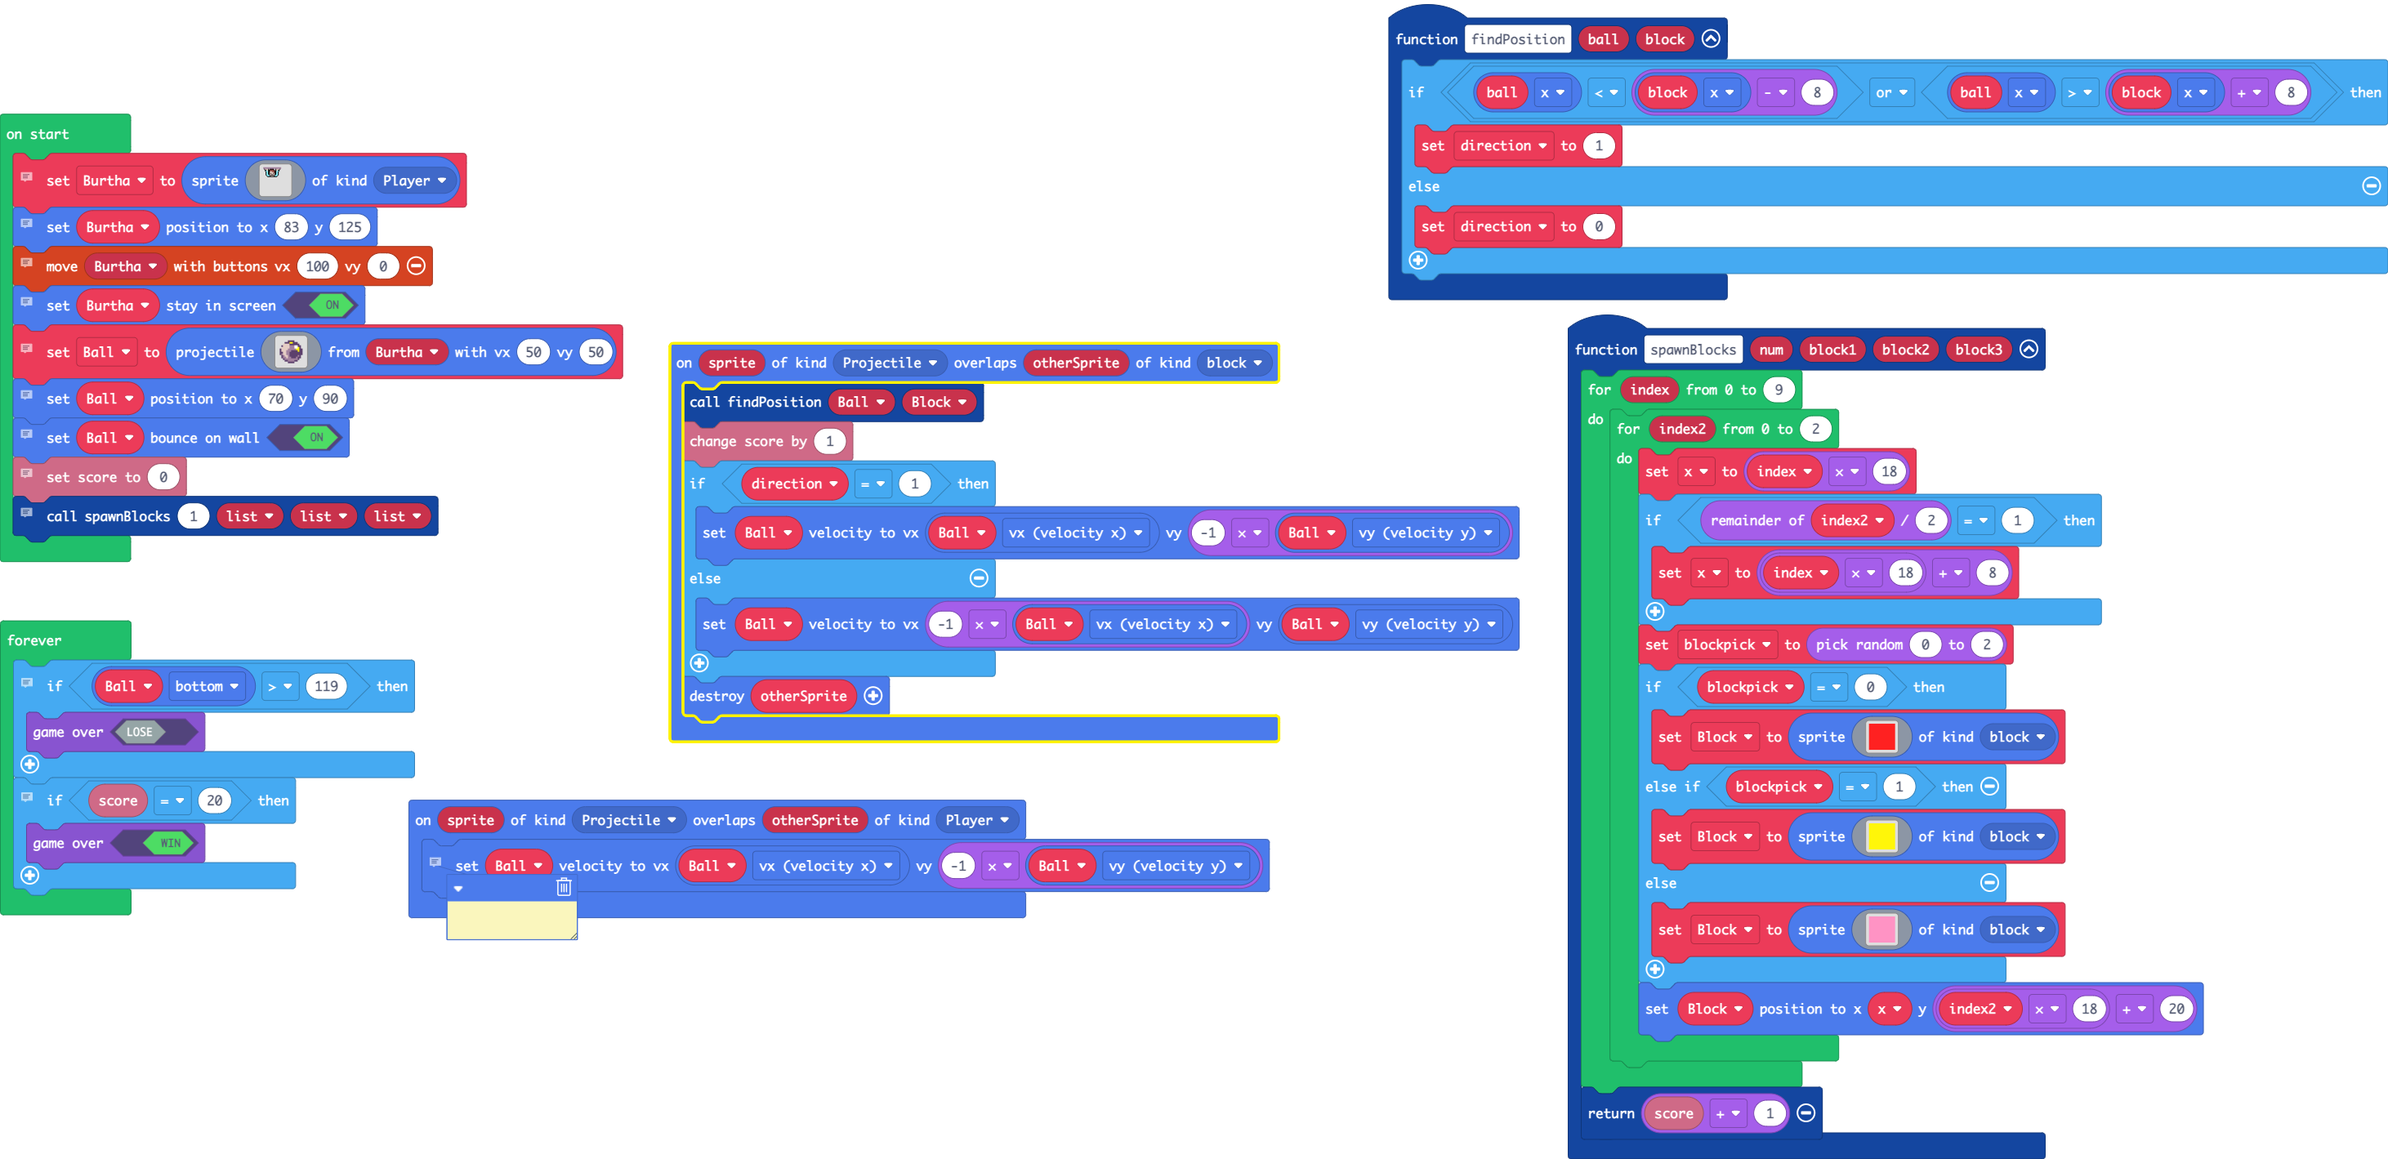
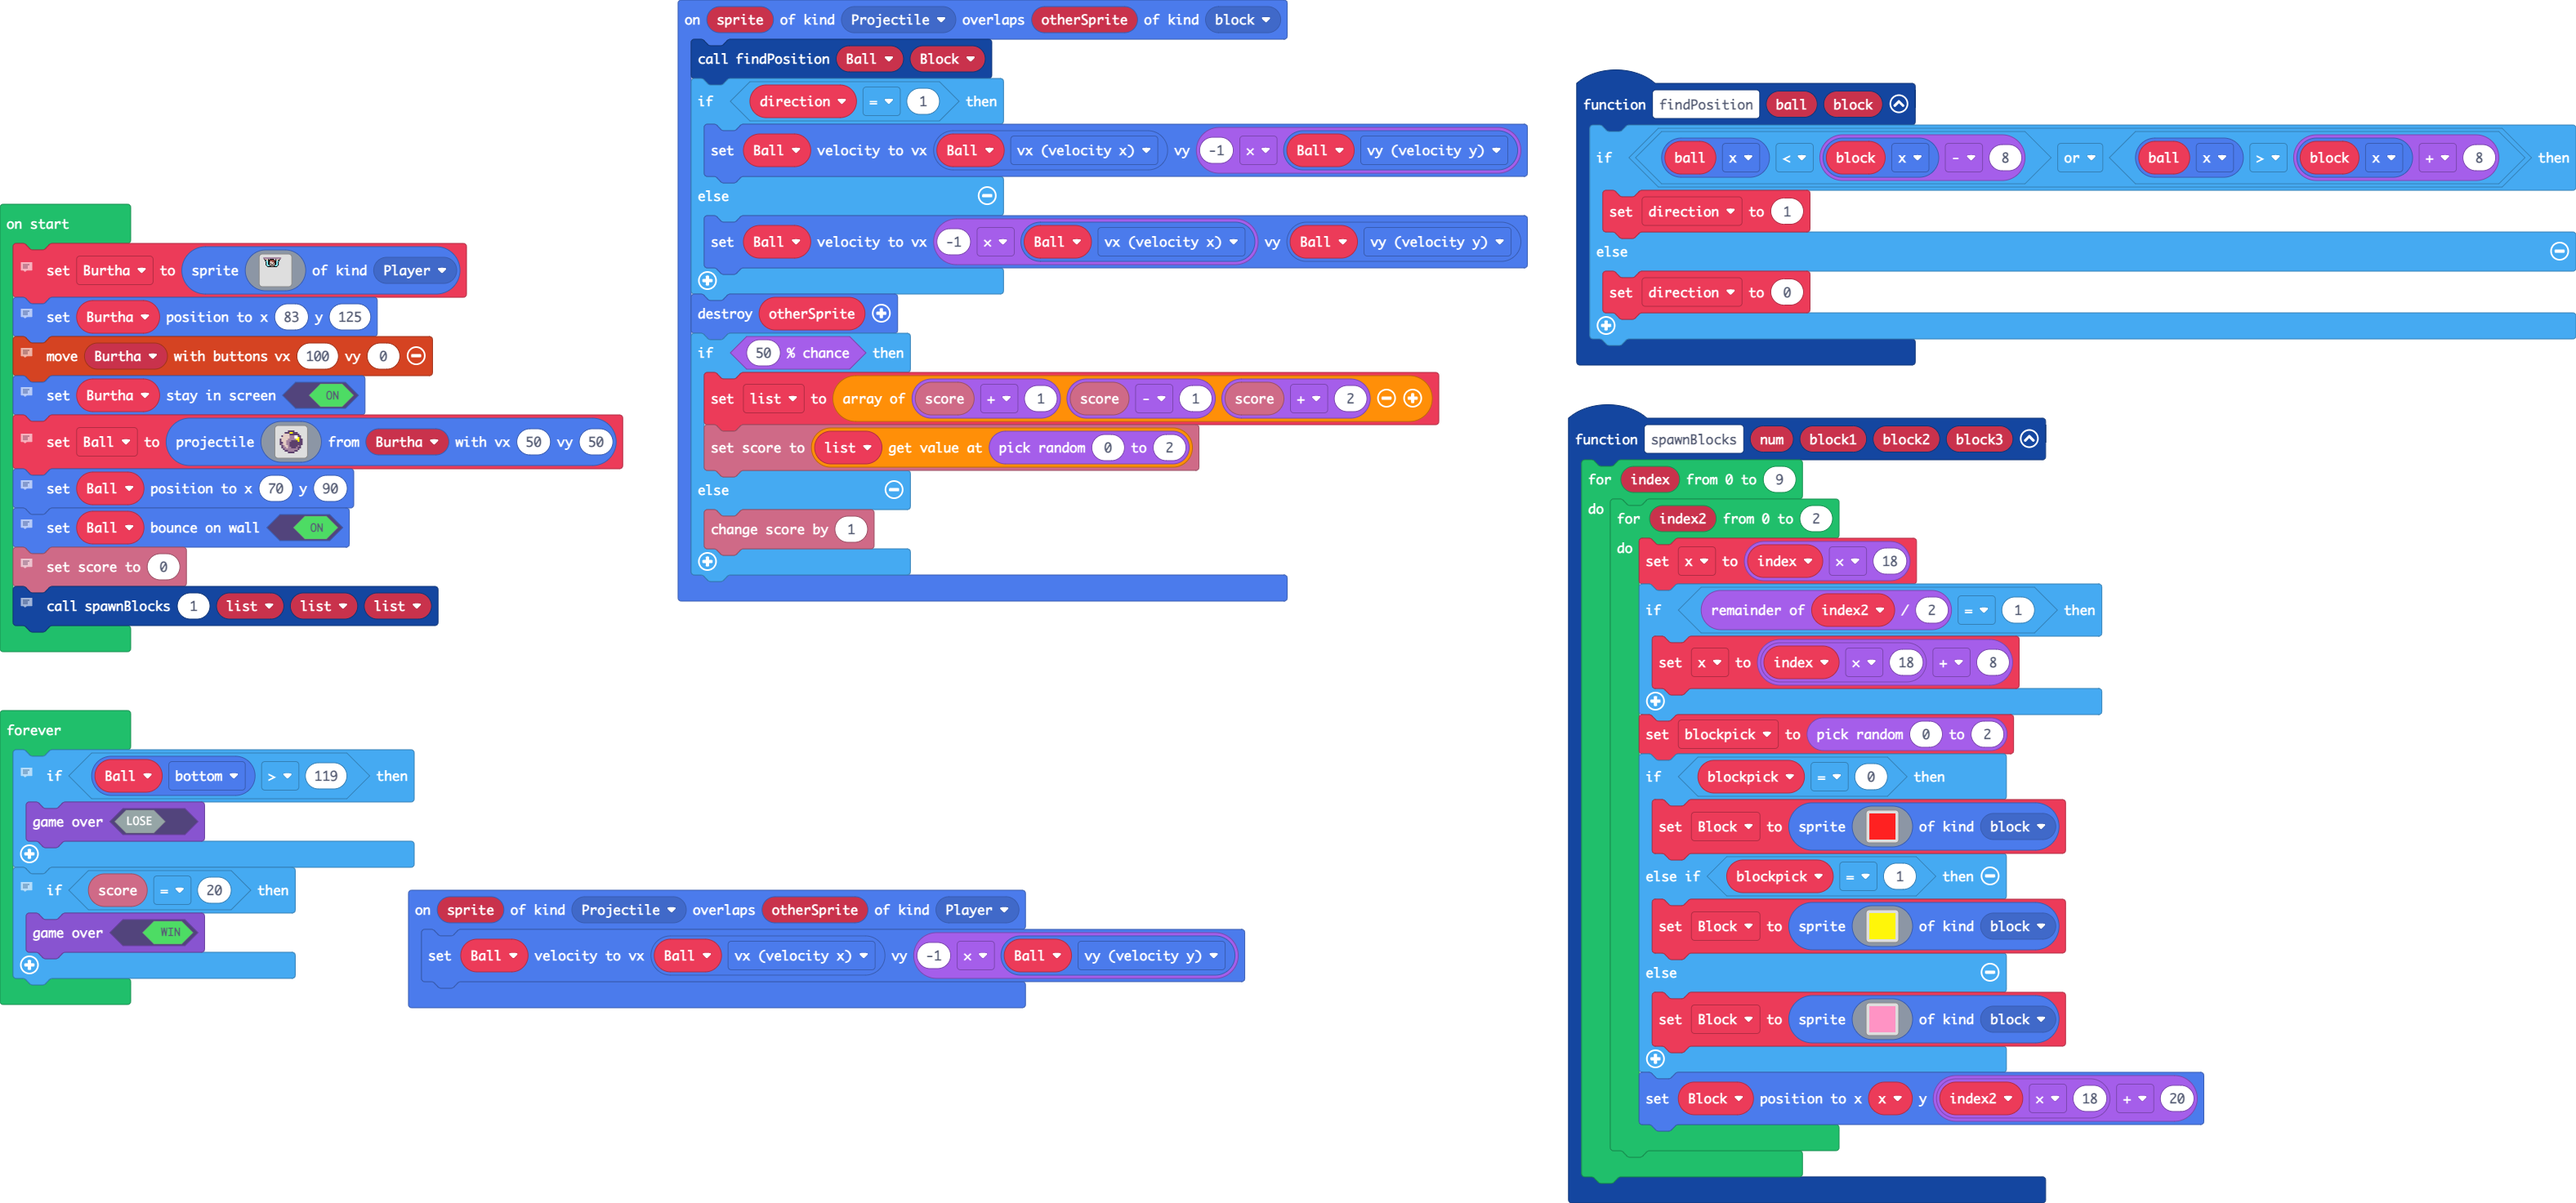
Update main.blocks, main.ts

diff --git a/main.ts b/main.ts
@@ -73,17 +73,21 @@ function spawnBlocks (num: number, block1: any[], block2: any[], block3: any[]) 
             Block.setPosition(x, index2 * 18 + 20)
         }
     }
-    return info.score() + 1
 }
 sprites.onOverlap(SpriteKind.Projectile, SpriteKind.block, function (sprite, otherSprite) {
     findPosition(Ball2, Block)
-    info.changeScoreBy(1)
     if (direction == 1) {
         Ball2.setVelocity(Ball2.vx, -1 * Ball2.vy)
     } else {
         Ball2.setVelocity(-1 * Ball2.vx, Ball2.vy)
     }
     sprites.destroy(otherSprite)
+    if (Math.percentChance(50)) {
+        list = [info.score() + 1, info.score() - 1, info.score() + 2]
+        info.setScore(list[randint(0, 2)])
+    } else {
+        info.changeScoreBy(1)
+    }
 })
 function findPosition (ball: Sprite, block: Sprite) {
     if (ball.x < block.x - 8 || ball.x > block.x + 8) {
